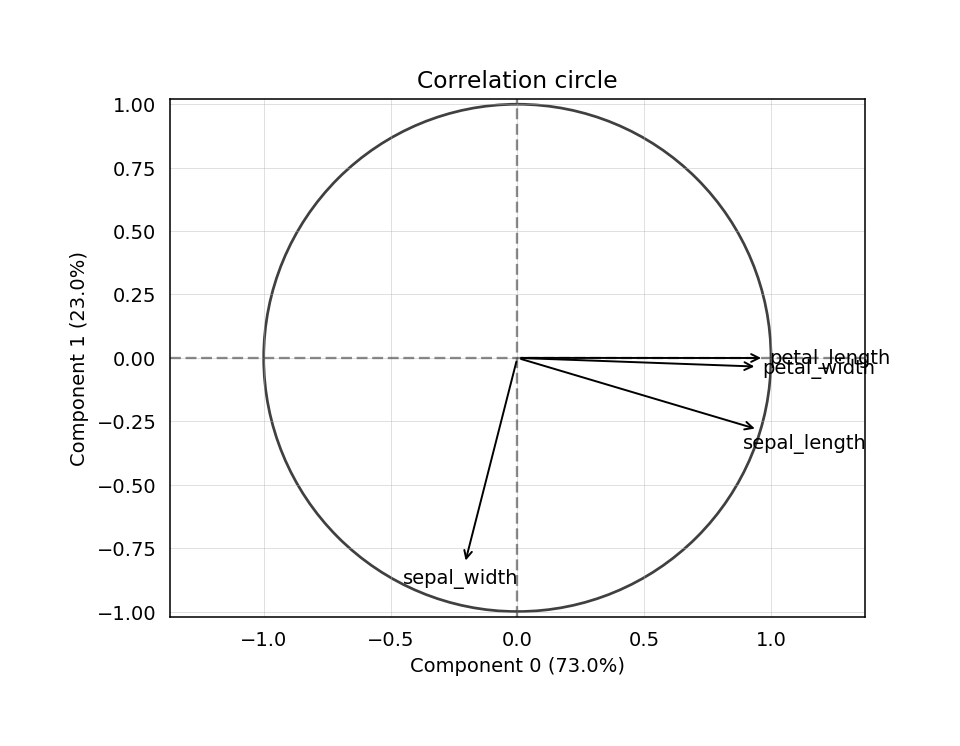
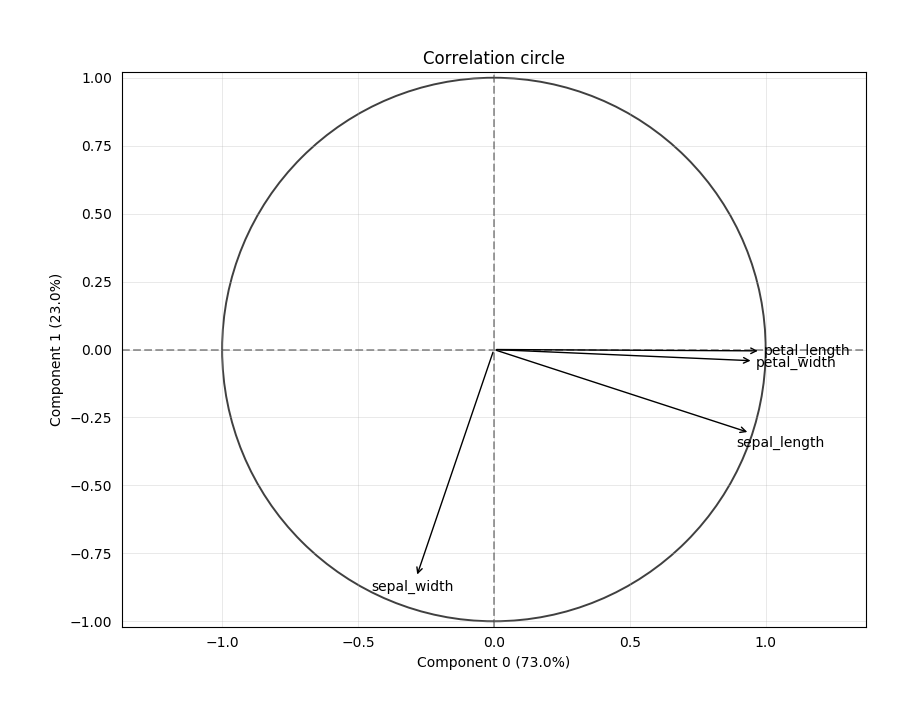
Update plots

diff --git a/prince/plot/mpl/__init__.py b/prince/plot/mpl/__init__.py
@@ -12,7 +12,7 @@ class MplPlotter(Plotter):
 
     def __init__(self):
 
-        mpl.rcParams['figure.dpi'] = 140
+        mpl.rcParams['figure.figsize'] = (9.6, 7.2)
 
         mpl.rcParams['lines.linewidth'] = 1.8 # line width in points
         mpl.rcParams['lines.markeredgewidth'] = 0.3 # the line width around the marker symbol

diff --git a/prince/__init__.py b/prince/__init__.py
@@ -5,7 +5,7 @@ from prince.pca import PCA
 from prince.svd import SVD
 
 __title__ = 'prince'
-__version__ = '0.2.4'
+__version__ = '0.2.5'
 __author__ = 'Max Halford'
 __license__ = 'MIT'
 __copyright__ = 'Copyright 2016 Max Halford'

diff --git a/HACKME.md b/HACKME.md
@@ -19,3 +19,32 @@ Then install the necessary dependencies.
 ```sh
 >>> pip install -r requirements.dev.txt
 ```
+
+## Upload to PyPI
+
+[Reference](http://peterdowns.com/posts/first-time-with-pypi.html)
+
+Create `~/.pypirc` with the following content:
+
+```sh
+[distutils]
+index-servers =
+  pypi
+  pypitest
+
+[pypi]
+repository=https://pypi.python.org/pypi
+username=your_username
+password=your_password
+
+[pypitest]
+repository=https://testpypi.python.org/pypi
+username=your_username
+password=your_password
+```
+
+```sh
+python setup.py sdist upload -r pypitest
+python setup.py sdist upload -r pypi
+```
+
